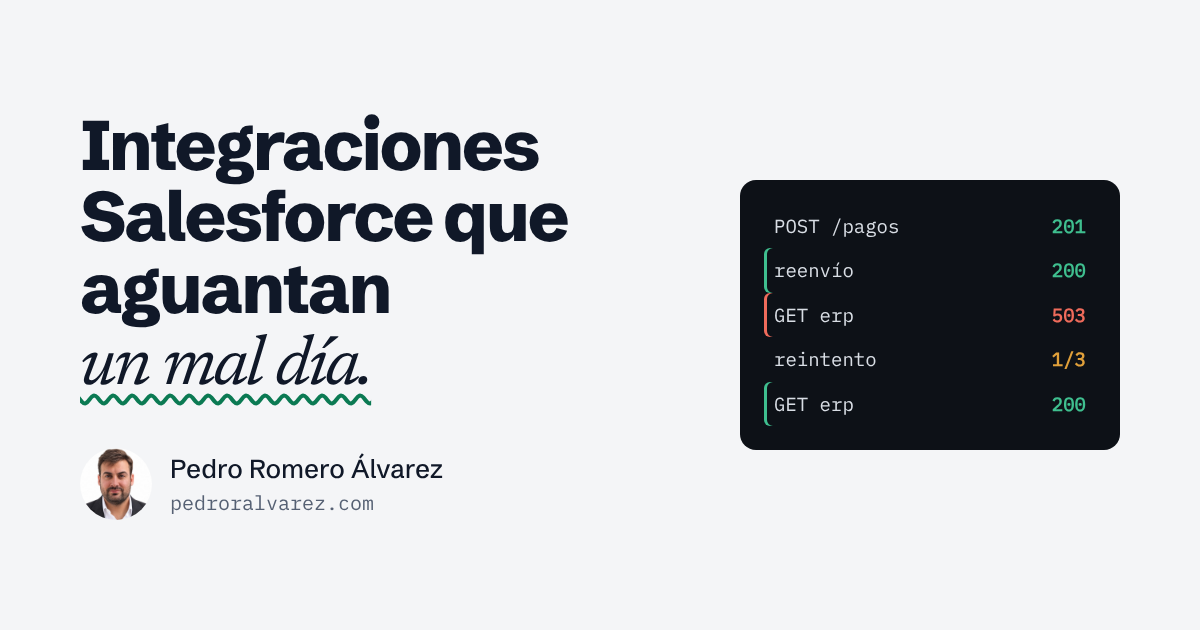
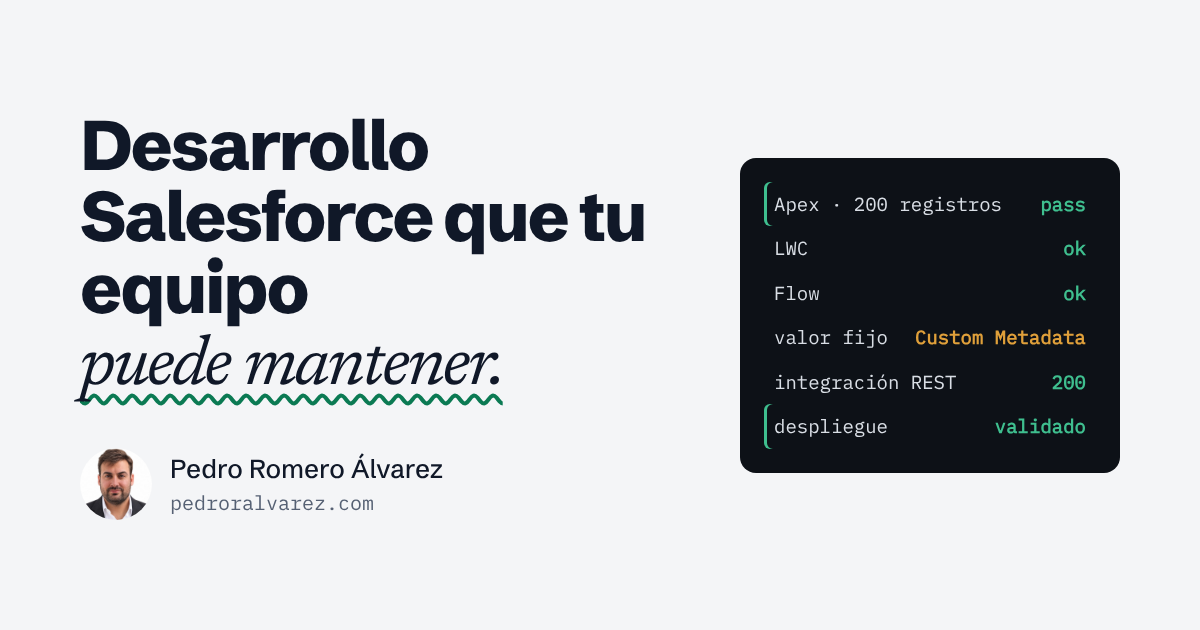
feat: actualizar imagen para compartir y título de contacto, y apilar la portada en móvil

diff --git a/public/styles.css b/public/styles.css
@@ -120,6 +120,7 @@ h1 .voz { display: inline-block; font-size: 1.06em; text-decoration: underline w
 .hero-intro { display: flex; gap: 16px; align-items: center; margin-top: 24px; }
 .hero-photo { flex: none; width: 76px; height: 76px; border-radius: 50%; object-fit: cover; object-position: 50% 22%; }
 .hero-intro .lead { margin-top: 0; }
+@media (max-width: 480px) { .hero-intro { flex-direction: column; align-items: flex-start; } }
 .lead { margin-top: 24px; max-width: 46ch; font-size: 1.1875rem; color: var(--graphite); }
 .actions { display: flex; flex-wrap: wrap; gap: 12px; margin-top: 32px; }
 .btn { display: inline-flex; align-items: center; padding: 12px 20px; border-radius: 8px; font: 500 1rem var(--display); text-decoration: none; cursor: pointer; border: 1px solid var(--rule); background: none; color: var(--ink); transition: background-color .2s ease, border-color .2s ease, color .2s ease, transform .15s ease; }

diff --git a/public/index.html b/public/index.html
@@ -384,7 +384,7 @@
 
 <section id="contacto" class="block invert contact">
   <div class="wrap">
-    <h2 class="say">Cuéntame qué falla.</h2>
+    <h2 class="say">Cuéntame qué quieres construir o qué falla.</h2>
     <a class="contact-mail" href="mailto:pedro@pedroralvarez.com">pedro@pedroralvarez.com</a>
     <div class="actions">
       <a class="btn btn-primary" href="https://cal.com/pedro-romero-alvarez/30min" rel="noopener noreferrer">Reservar llamada</a>
